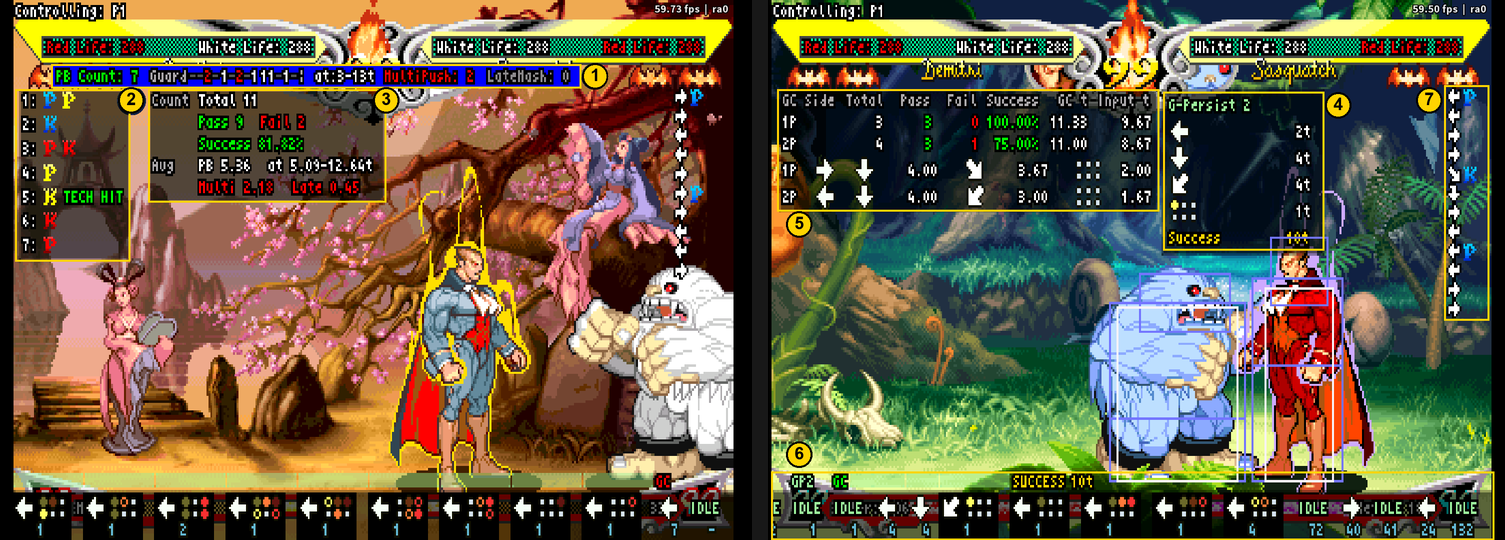
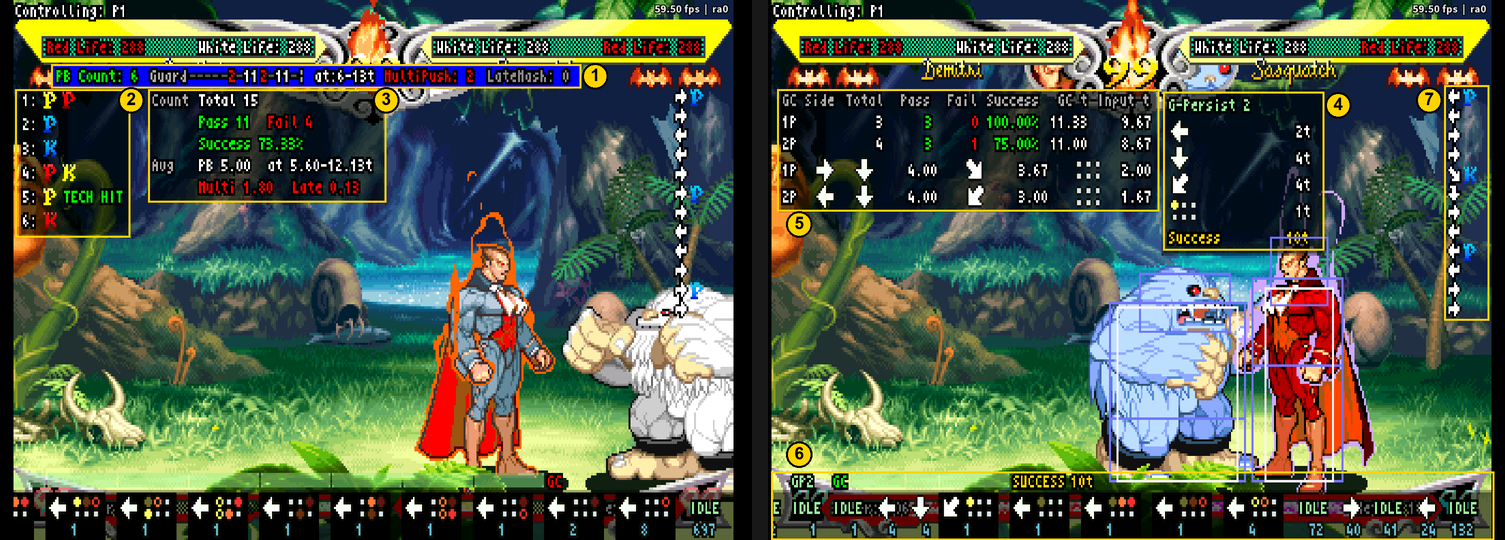
v11.7.31 (AG 側の画面の画像を差し替え)

diff --git a/README.ja.md b/README.ja.md
@@ -16,7 +16,7 @@ See what the Warlord sees, and practice what the Warlord practices.
 
 ![左はAG、右はGCを練習中の画面。番号は表示の種類](docs/images/screen_map.png)
 
-左：受付時間内に何回、どのTickで押したか、どの押しでAGが成立したか（`TECH HIT`）を確認。右：GCの方向入力やボタンが、どこまで受け付けられたかを確認。各表示の読み方は[画面の見方](docs/PLAYER_MANUAL.ja.md#screen-map)へ。
+左：遅らせAGでも6回入力できたかを確認。右：GCの方向入力やボタンが、どこまで受け付けられたかを確認。各表示の読み方は[画面の見方](docs/PLAYER_MANUAL.ja.md#screen-map)へ。
 
 ## 再現して、練習して、改善する
 

diff --git a/README.md b/README.md
@@ -16,7 +16,7 @@ This fork extends [VSAV_Training's fc2 branch](https://github.com/NBeing/VSAV_Tr
 
 ![Practicing PB (left) and GC (right), with each display numbered](docs/images/screen_map.png)
 
-Left: see how many presses fit in the window, on which Ticks, and which press made the PB (`TECH HIT`). Right: see which GC directions and button presses the game accepted. See [how to read the screen](docs/PLAYER_MANUAL.en.md#screen-map) for each display.
+Left: check whether you still fit six presses when delaying PB. Right: see which GC directions and button presses the game accepted. See [how to read the screen](docs/PLAYER_MANUAL.en.md#screen-map) for each display.
 
 ## Reproduce, practice and improve
 
